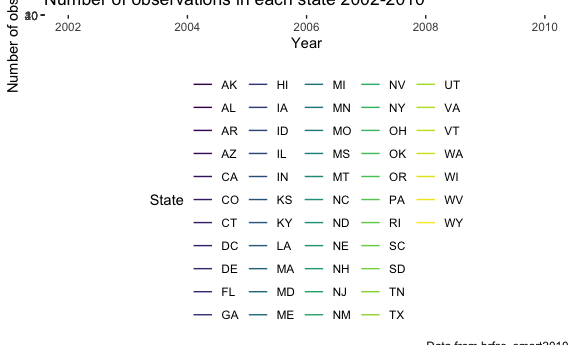
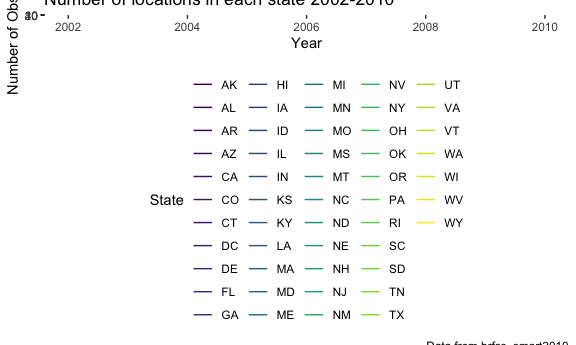
Worked on Q1 plot

Changed region(s): [[0.2188, 0.0, 0.75, 0.029], [0.0, 0.0, 0.0312, 0.2899]]

diff --git a/p8105_hw3_bs3142.md b/p8105_hw3_bs3142.md
@@ -87,9 +87,9 @@ brfss_data %>%
   ggplot(aes(x = year, y = n_obs, color = locationabbr)) + 
     geom_line() +
     labs(
-      title = "Number of observations in each state 2002-2010",
+      title = "Number of locations in each state 2002-2010",
       x = "Year",
-      y = "Number of observations",
+      y = "Number of Observations",
       caption = "Data from brfss_smart2010"
   ) +
   viridis::scale_color_viridis(
@@ -120,7 +120,7 @@ brfss_data %>%
 |  2006|                       22.5|                      4.0|
 |  2010|                       22.7|                      3.6|
 
-**4. For each year and state, compute the average proportion in each response category (taking the average across locations in a state). Make a five-panel plot that shows, for each response category separately, the distribution of these state-level averages over time. **
+**4. For each year and state, compute the average proportion in each response category (taking the average across locations in a state). Make a five-panel plot that shows, for each response category separately, the distribution of these state-level averages over time.**
 
 ``` r
 brfss_data %>%
